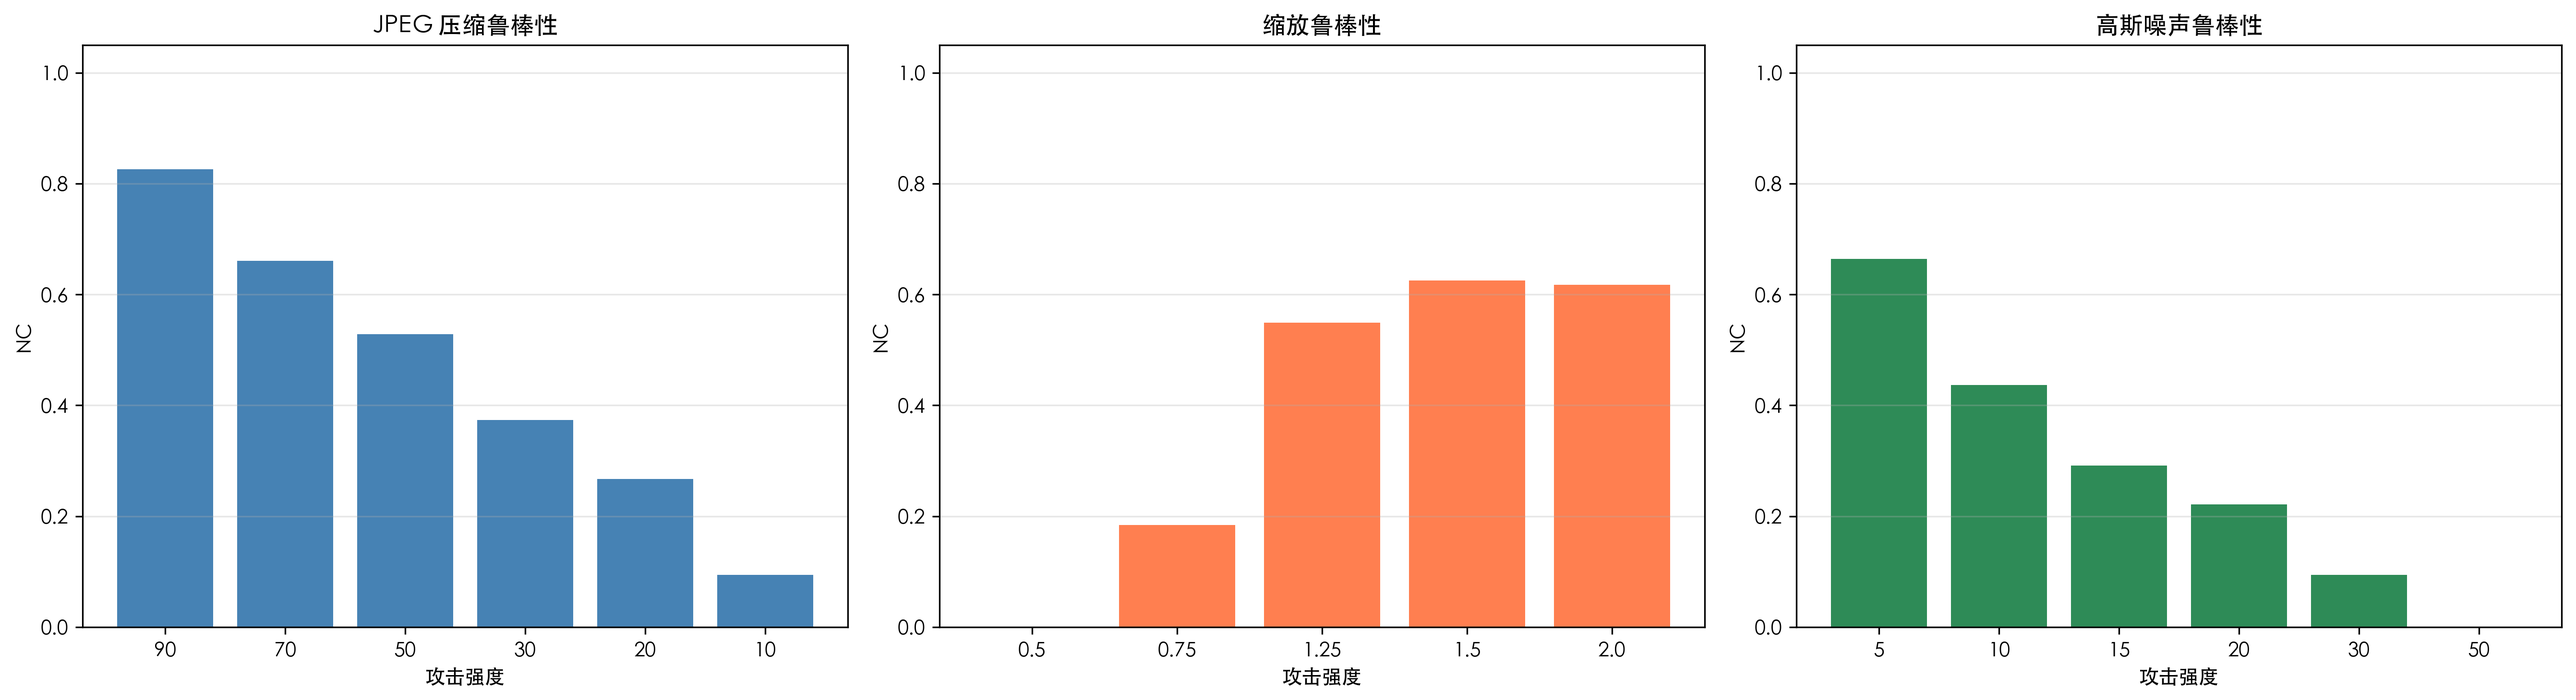
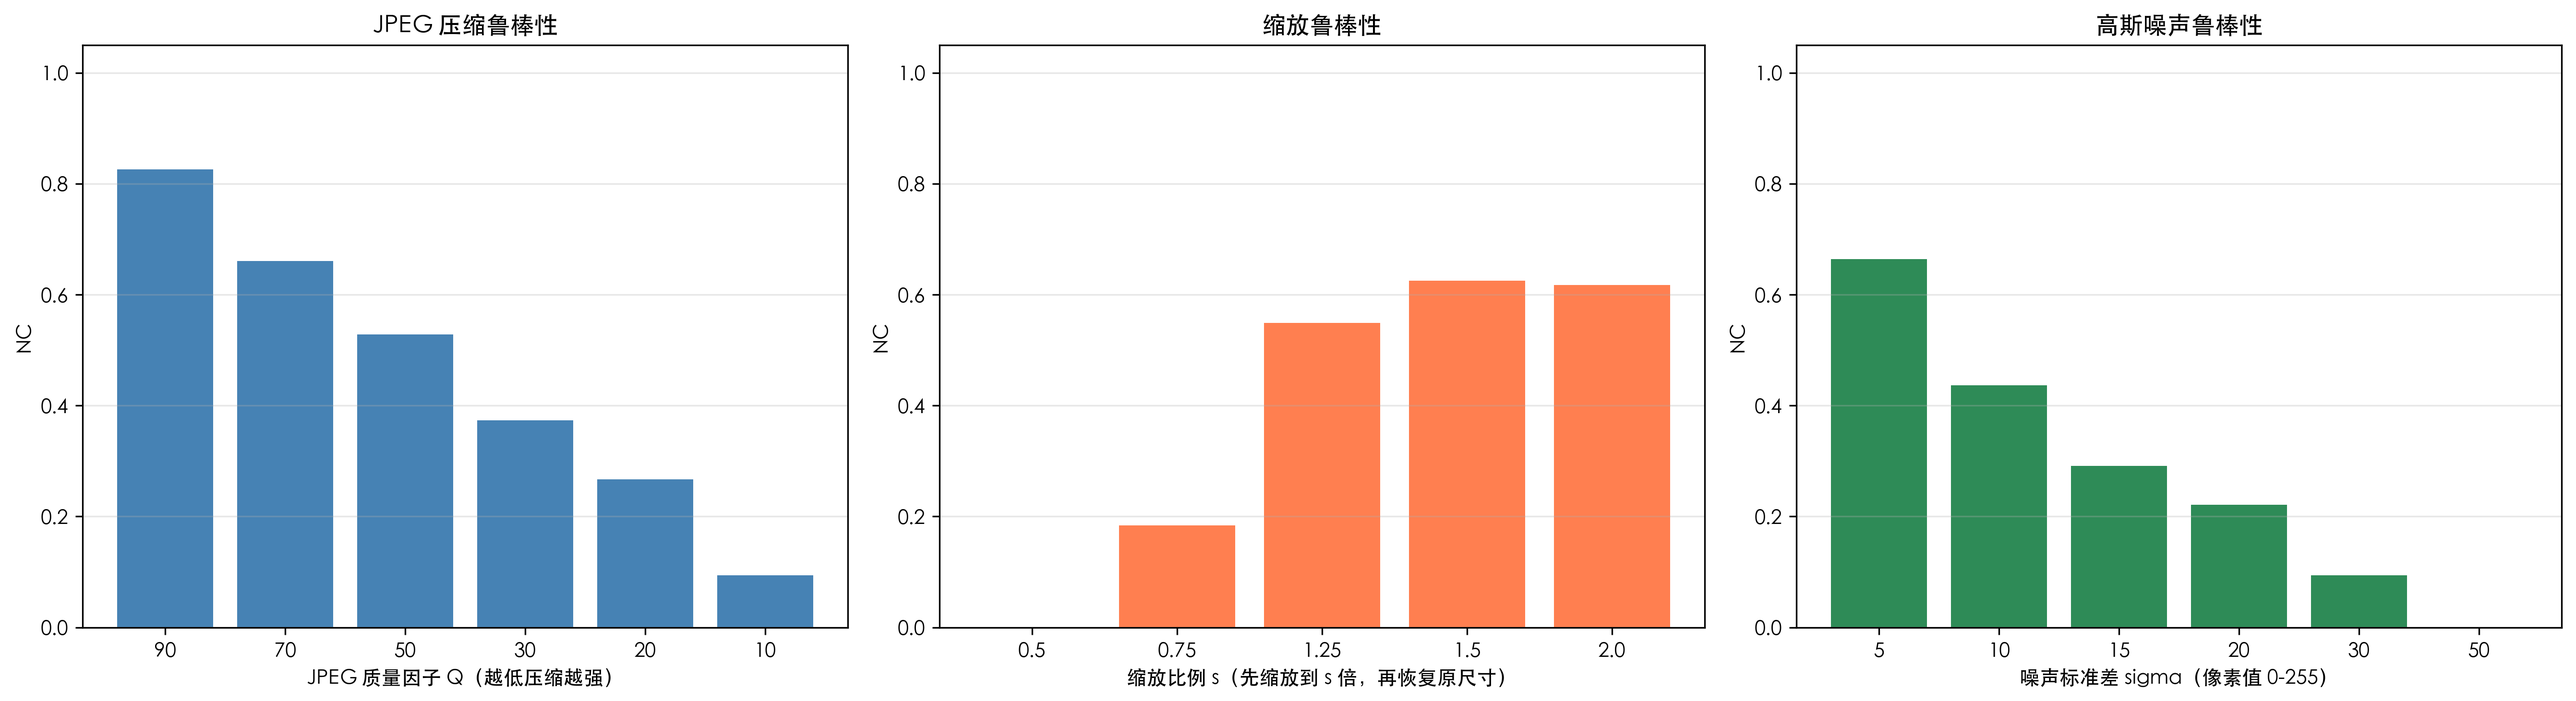
Update watermark experiment figures

diff --git a/templates/index.html b/templates/index.html
@@ -33,7 +33,7 @@
         <div class="field">
           <label for="alpha">嵌入强度</label>
           <div class="range-row">
-            <input id="alpha" name="alpha" type="range" min="0.01" max="0.20" step="0.01" value="{{ alpha }}">
+            <input id="alpha" name="alpha" type="range" min="0.01" max="0.30" step="0.01" value="{{ alpha }}">
             <output id="alphaValue">{{ "%.2f"|format(alpha) }}</output>
           </div>
         </div>

diff --git a/dft_image_processor_show_dwt_fixed.py b/dft_image_processor_show_dwt_fixed.py
@@ -320,12 +320,17 @@ def robustness_tests(cover, watermarked, wm_bin, pos):
 def save_robustness_summary(results):
     fig, axes = plt.subplots(1, 3, figsize=(18, 5))
     colors = ["steelblue", "coral", "seagreen"]
+    xlabels = {
+        "JPEG 压缩": "JPEG 质量因子 Q（越低压缩越强）",
+        "缩放": "缩放比例 s（先缩放到 s 倍，再恢复原尺寸）",
+        "高斯噪声": "噪声标准差 sigma（像素值 0-255）",
+    }
     for ax, (name, rows), color in zip(axes, results.items(), colors):
         labels = [str(r[0]) for r in rows]
         ncs = [r[1] for r in rows]
         ax.bar(range(len(labels)), ncs, tick_label=labels, color=color)
         ax.set_title(name + "鲁棒性")
-        ax.set_xlabel("攻击强度")
+        ax.set_xlabel(xlabels[name])
         ax.set_ylabel("NC")
         ax.set_ylim(0, 1.05)
         ax.grid(axis="y", alpha=0.3)
@@ -459,6 +464,63 @@ def blind_dft_experiment(cover, wm_bin, pos):
     return cv2.cvtColor((gray_wm * 255).astype(np.uint8), cv2.COLOR_GRAY2BGR), ext
 
 
+def save_method_group_figure(filename, title, selected_names, cover_u8, wm_bin, method_images, method_ext, metrics):
+    meta = {
+        "DFT 非盲": ("DFT", "加性嵌入", "非盲"),
+        "DCT QIM": ("DCT", "QIM 量化", "盲"),
+        "DWT": ("DWT", "加性嵌入", "非盲"),
+        "DFT 盲 QIM": ("DFT", "QIM 量化", "盲"),
+    }
+    cols = len(selected_names) + 1
+    fig = plt.figure(figsize=(4.8 * cols, 11))
+
+    ax = fig.add_subplot(3, cols, 1)
+    ax.imshow(cv2.cvtColor(cover_u8, cv2.COLOR_BGR2RGB))
+    ax.set_title("原始载体")
+    ax.axis("off")
+
+    for i, name in enumerate(selected_names, start=2):
+        p, _, _ = metrics[name]
+        ax = fig.add_subplot(3, cols, i)
+        ax.imshow(cv2.cvtColor(method_images[name], cv2.COLOR_BGR2RGB))
+        ax.set_title(f"{name}\nPSNR={p:.1f}")
+        ax.axis("off")
+
+    ax = fig.add_subplot(3, cols, cols + 1)
+    ax.imshow(wm_bin, cmap="gray", vmin=0, vmax=255)
+    ax.set_title("原始水印")
+    ax.axis("off")
+
+    for i, name in enumerate(selected_names, start=cols + 2):
+        _, _, n = metrics[name]
+        ax = fig.add_subplot(3, cols, i)
+        ax.imshow(method_ext[name], cmap="gray", vmin=0, vmax=255)
+        ax.set_title(f"{name}\nNC={n:.3f}")
+        ax.axis("off")
+
+    table_ax = fig.add_subplot(3, cols, (2 * cols + 1, 3 * cols))
+    table_ax.axis("off")
+    rows = []
+    for name in selected_names:
+        p, s, n = metrics[name]
+        domain, embedding, extraction = meta[name]
+        rows.append([name, domain, embedding, extraction, f"{p:.2f}", f"{s:.4f}", f"{n:.4f}"])
+    table = table_ax.table(
+        cellText=rows,
+        colLabels=["方法", "变换域", "嵌入方式", "提取方式", "PSNR(dB)", "SSIM", "NC"],
+        cellLoc="center",
+        loc="center",
+    )
+    table.auto_set_font_size(False)
+    table.set_fontsize(11)
+    table.scale(1, 2)
+    table_ax.set_title(title)
+
+    plt.tight_layout()
+    plt.savefig(ROOT / filename, dpi=DPI, bbox_inches="tight")
+    plt.close()
+
+
 def compare_methods(cover, wm_bin, wm_pm1, pos, dft_wm, dft_ext, dft_metrics):
     cover_u8 = (cover * 255).astype(np.uint8)
     gray_cover = cv2.cvtColor(cover_u8, cv2.COLOR_BGR2GRAY)
@@ -478,43 +540,26 @@ def compare_methods(cover, wm_bin, wm_pm1, pos, dft_wm, dft_ext, dft_metrics):
         method_ext[name] = ext
         metrics[name] = (float(psnr(gray_cover, gray)), float(ssim(gray_cover, gray)), normalized_correlation(wm_bin, ext))
 
-    fig = plt.figure(figsize=(24, 14))
-    names = list(method_images)
-    ax = fig.add_subplot(3, 5, 1)
-    ax.imshow(cv2.cvtColor(cover_u8, cv2.COLOR_BGR2RGB))
-    ax.set_title("原始载体")
-    ax.axis("off")
-
-    for i, name in enumerate(names, start=2):
-        p, _, _ = metrics[name]
-        ax = fig.add_subplot(3, 5, i)
-        ax.imshow(cv2.cvtColor(method_images[name], cv2.COLOR_BGR2RGB))
-        ax.set_title(f"{name}\nPSNR={p:.1f}")
-        ax.axis("off")
-
-    ax = fig.add_subplot(3, 5, 6)
-    ax.imshow(wm_bin, cmap="gray", vmin=0, vmax=255)
-    ax.set_title("原始水印")
-    ax.axis("off")
-    for i, name in enumerate(names, start=7):
-        _, _, n = metrics[name]
-        ax = fig.add_subplot(3, 5, i)
-        ax.imshow(method_ext[name], cmap="gray", vmin=0, vmax=255)
-        ax.set_title(f"{name}\nNC={n:.3f}")
-        ax.axis("off")
-
-    table_ax = fig.add_subplot(3, 5, (11, 15))
-    table_ax.axis("off")
-    rows = [[name, f"{m[0]:.2f}", f"{m[1]:.4f}", f"{m[2]:.4f}"] for name, m in metrics.items()]
-    table = table_ax.table(cellText=rows, colLabels=["方法", "PSNR(dB)", "SSIM", "NC"], cellLoc="center", loc="center")
-    table.auto_set_font_size(False)
-    table.set_fontsize(12)
-    table.scale(1, 2)
-    table_ax.set_title("综合对比")
-
-    plt.tight_layout()
-    plt.savefig(ROOT / "method_comparison.png", dpi=DPI, bbox_inches="tight")
-    plt.close()
+    save_method_group_figure(
+        "qim_comparison.png",
+        "QIM 量化嵌入方法对比",
+        ["DCT QIM", "DFT 盲 QIM"],
+        cover_u8,
+        wm_bin,
+        method_images,
+        method_ext,
+        metrics,
+    )
+    save_method_group_figure(
+        "dct_dwt_comparison.png",
+        "DCT 与 DWT 变换域方法对比",
+        ["DCT QIM", "DWT"],
+        cover_u8,
+        wm_bin,
+        method_images,
+        method_ext,
+        metrics,
+    )
     return metrics
 
 
@@ -558,7 +603,15 @@ def main():
     print_report(metrics, wm_bin.shape)
 
     print("\n输出文件：")
-    for name in ["basic_dft_result.png", "frequency_diff.png", "frequency_comparison.png", "alpha_scan.png", "robustness_summary.png", "method_comparison.png"]:
+    for name in [
+        "basic_dft_result.png",
+        "frequency_diff.png",
+        "frequency_comparison.png",
+        "alpha_scan.png",
+        "robustness_summary.png",
+        "qim_comparison.png",
+        "dct_dwt_comparison.png",
+    ]:
         print(" -", ROOT / name)
 
 

diff --git a/README.md b/README.md
@@ -195,7 +195,8 @@ if method == "new_method":
 | `frequency_comparison.png` | B、G、R 三通道的 DFT 嵌入前幅度谱、嵌入后幅度谱和频域变化差异 |
 | `alpha_scan.png` | 不同 `alpha` 下 PSNR、SSIM 和 NC 的变化 |
 | `robustness_summary.png` | JPEG、缩放和高斯噪声攻击下的鲁棒性 |
-| `method_comparison.png` | DFT 非盲、DCT QIM、DWT 和 DFT 盲 QIM 综合对比 |
+| `qim_comparison.png` | DCT QIM 和 DFT 盲 QIM 两种 QIM 量化嵌入方法对比 |
+| `dct_dwt_comparison.png` | DCT QIM 和 DWT 两种变换域方法对比 |
 
 ### DFT 基础结果
 
@@ -205,9 +206,13 @@ if method == "new_method":
 
 ![DFT 频谱对比](frequency_comparison.png)
 
-### 方法对比
+### QIM 方法对比
 
-![水印方法对比](method_comparison.png)
+![QIM 方法对比](qim_comparison.png)
+
+### DCT 与 DWT 对比
+
+![DCT 与 DWT 对比](dct_dwt_comparison.png)
 
 ## 项目结构
 

diff --git a/说明.md b/说明.md
@@ -259,7 +259,7 @@ main[i, j] = int(np.floor(abs(f[y + i, x + j]) / delta + 0.5)) % 2
 
 **10. 方法对比与输出**
 
-`compare_methods()` 会统一比较四种方法：
+`compare_methods()` 会先统一计算四种方法：
 
 - `DFT 非盲`
 - `DCT QIM`
@@ -272,11 +272,14 @@ main[i, j] = int(np.floor(abs(f[y + i, x + j]) / delta + 0.5)) % 2
 - SSIM
 - NC
 
-并生成：
+然后分成两张挑战部分对比图：
 
 ```text
-method_comparison.png
+qim_comparison.png
+dct_dwt_comparison.png
 ```
+
+其中 `qim_comparison.png` 对比的是 QIM 量化嵌入方法，`dct_dwt_comparison.png` 对比的是 DCT 和 DWT 变换域方法。
 
 主函数 `main()` 的完整流程是：
 
